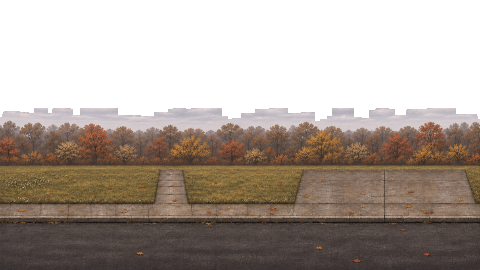
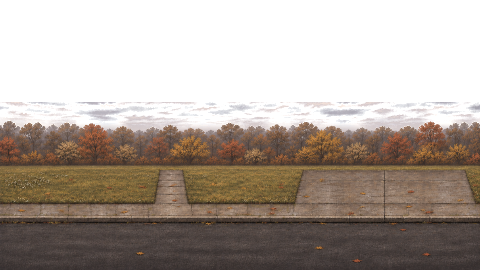
Soft woods against the sky, the whole dial wheel, period figures on the dial and cover; review 50 (cover design, what next)
Claude-Session: https://claude.ai/code/session_01BMyqTudGWpuTphuwn8oTvi

Changed region(s): [[0.0, 0.3556, 1.0, 0.4741]]

diff --git a/gearhouse/render/place/front2.ts b/gearhouse/render/place/front2.ts
@@ -29,10 +29,12 @@ function treeOf(doy: number): [string, string, number] {
   const T: [number, string][] = [[0, 'tree_bare'], [84, 'tree_bare'], [100, 'tree_bud'], [110, 'tree_bud'], [118, 'tree_blossom'], [136, 'tree_blossom'], [148, 'tree_summer'], [258, 'tree_summer'], [270, 'tree_yellow'], [282, 'tree_yellow'], [290, 'tree_red'], [298, 'tree_red'], [306, 'tree_late'], [316, 'tree_late'], [326, 'tree_bare'], [366, 'tree_bare']];
   for (let i = 0; i < T.length - 1; i++) { const [d0, a] = T[i]!, [d1, b] = T[i + 1]!; if (doy >= d0 && doy < d1) return [a, b, a === b ? 0 : (doy - d0) / (d1 - d0)]; } return ['tree_bare', 'tree_bare', 0]; }
 const cell = (x: number, y: number, s = 3) => hash2(Math.floor(x / s) + 911, Math.floor(y / s) + 37);   // a patch's own threshold, for changing a patch at a time
+/** the same for leaves: round clumps of all sizes, not squares */
+const clump = (x: number, y: number) => Math.min(1, Math.max(0, (noise(x / 9 + 3.1, y / 9 + 7.7) * 0.65 + noise(x / 3.5 + 11, y / 3.5) * 0.35 - 0.2) / 0.6));
 
 export class Front2 {
   private alb = new Float32Array(N * 3); private lit = new Float32Array(N * 3); private kind = new Uint8Array(N); private sky = new Float32Array(W * 180 * 3);
-  private glass = new Int8Array(N).fill(-1);
+  private glass = new Int8Array(N).fill(-1); private cover = new Float32Array(N);
   private smoke: { x: number; y: number; age: number; life: number }[] = []; private fall: { x: number; y: number; v: number; snow: number }[] = []; private bird = { x: -1, y: 0, wait: 6, dir: 1 };
   constructor(private C: Cut, private P: Record<string, Pic>) {
     // the panes of the house's windows: the dark glass inside each window box (not the shutters, not the bars)
@@ -72,13 +74,13 @@ export class Front2 {
         const k = (y * W + x) * 3; this.sky[k] = r; this.sky[k + 1] = g; this.sky[k + 2] = b; } }
     // ---- the ground of the season, changing a patch at a time; snow laid in patches
     const [ga, gb, gf] = seasonOf(e.doy), A = P['ground_' + ga]!, B = P['ground_' + gb]!, SN = P.ground_winter_snow!;
-    this.kind.fill(K.Sky);
+    this.kind.fill(K.Sky); this.cover.fill(1);
     for (let i = 0; i < N; i++) { const x = i % W, y = (i / W) | 0, c = cell(x, y, 4), src = e.snow > 0 && cell(x + 3, y, 3) < e.snow ? SN : c < gf ? B : A, j = i * 4;
-      if (src.px[j + 3]! < 128) continue; this.alb[i * 3] = src.px[j]!; this.alb[i * 3 + 1] = src.px[j + 1]!; this.alb[i * 3 + 2] = src.px[j + 2]!; this.kind[i] = y >= 168 && (y >= 203 || (x >= 296 && x < 470) || (x >= 152 && x < 188)) ? K.Wet : K.Ground; }
+      const cv = src.px[j + 3]! / 255; this.cover[i] = cv; if (cv < 0.04) continue; /* the woods' crowns are soft against the sky */ this.alb[i * 3] = src.px[j]!; this.alb[i * 3 + 1] = src.px[j + 1]!; this.alb[i * 3 + 2] = src.px[j + 2]!; this.kind[i] = y >= 168 && (y >= 203 || (x >= 296 && x < 470) || (x >= 152 && x < 188)) ? K.Wet : K.Ground; }
     // ---- the buildings and things
     this.lay(P.garage!, C.garage!.at, K.Wall); this.lay(P.house!, C.house!.at, K.Wall); this.lay(P.mailbox!, C.mailbox!.at, K.Wall); this.lay(P.lamp!, C.lamp!.at, K.Wall);
     const [ta, tb, tf] = treeOf(e.doy), amp = 0.35 + 1.4 * a.wind, sway = (p: Pic) => (sy: number) => { const up = clamp(1 - sy / (p.h * 0.62)); return amp * up * up * (Math.sin(t * 0.9 + sy * 0.015) * 0.75 + Math.sin(t * 2.1 + sy * 0.04) * 0.25); };
-    if (tf > 0) { const pa = P[ta]!, pb = P[tb]!; this.lay(pa, C[ta]!.at, K.Wall, (x, y) => cell(x, y, 3) >= tf, sway(pa)); this.lay(pb, C[tb]!.at, K.Wall, (x, y) => cell(x, y, 3) < tf, sway(pb)); }
+    if (tf > 0) { const pa = P[ta]!, pb = P[tb]!; this.lay(pa, C[ta]!.at, K.Wall, (x, y) => clump(x, y) >= tf, sway(pa)); this.lay(pb, C[tb]!.at, K.Wall, (x, y) => clump(x, y) < tf, sway(pb)); }
     else this.lay(P[ta]!, C[ta]!.at, K.Wall, undefined, sway(P[ta]!));
     if (e.snow > 0.05) this.lay(P.snowcaps!, [0, 0], K.Wall, (x, y) => cell(x, y, 2) < e.snow * 1.3);
     if (ga === 'autumn' || (gb === 'autumn' && gf > 0.5) || ga === 'winter_bare' && e.doy > 300 && e.doy < 335) { const heaps: [string, number, number][] = [['leaves_1', 4, 166], ['leaves_0', 192, 190], ['leaves_2', 262, 196]]; for (const [n, x, y] of heaps) if (P[n]) this.lay(P[n]!, [x, y], K.Ground); }
@@ -94,6 +96,7 @@ export class Front2 {
       if (winLit && (kd === K.Ground || kd === K.Wet)) for (const wb of C.windows) { const cx = (wb[0]! + wb[2]!) / 2, d = (x - cx) / 22, dy = (y - (wb[3]! + 26)) / 12; const kk = 0.22 * wl * Math.exp(-(d * d + dy * dy)); r += kk; g += kk * 0.72; b += kk * 0.42; }
       let ar = this.alb[i * 3]!, ag = this.alb[i * 3 + 1]!, ab = this.alb[i * 3 + 2]!; if (kd === K.Wet && e.wet > 0) { const w = 1 - 0.32 * e.wet; ar *= w; ag *= w; ab *= w; }
       this.lit[i * 3] = ar * r; this.lit[i * 3 + 1] = ag * g; this.lit[i * 3 + 2] = ab * b;
+      if (kd === K.Ground && this.cover[i]! < 1) { const cv = this.cover[i]!, k = (Math.min(179, y) * W + x) * 3; this.lit[i * 3] = lerp(this.sky[k]!, this.lit[i * 3]!, cv); this.lit[i * 3 + 1] = lerp(this.sky[k + 1]!, this.lit[i * 3 + 1]!, cv); this.lit[i * 3 + 2] = lerp(this.sky[k + 2]!, this.lit[i * 3 + 2]!, cv); }
       // the windows at night: what is behind the glass, lamplit
       const gw = this.glass[i]!; if (gw >= 0 && winLit) { if (gw === 9) { this.lit[i * 3] = lerp(this.lit[i * 3]!, 236, wl * 0.8); this.lit[i * 3 + 1] = lerp(this.lit[i * 3 + 1]!, 170, wl * 0.8); this.lit[i * 3 + 2] = lerp(this.lit[i * 3 + 2]!, 96, wl * 0.8); }
         else { const nbx = C.windows[gw]!, nw = P['nightwin_' + gw]!, u = (x - nbx[0]!) / (nbx[2]! - nbx[0]!), v = (y - nbx[1]!) / (nbx[3]! - nbx[1]!), j = (Math.min(nw.h - 1, Math.max(0, Math.floor(v * nw.h))) * nw.w + Math.min(nw.w - 1, Math.max(0, Math.floor(u * nw.w)))) * 4;
@@ -141,4 +144,3 @@ export class Front2 {
     for (const q of this.fall) { if (q.snow) this.dab(q.x, q.y, [0, 0.35, 0.8, 1.3][q.snow]!, [236 * lv + 10, 238 * lv + 10, 246 * lv + 8], [0, 0.45, 0.75, 0.85][q.snow]!);
       else for (let j = 0; j < 6; j++) { const x = Math.round(q.x + j * (0.12 + a.wind * 0.3)), y = Math.round(q.y - j); if (x < 0 || y < 0 || x >= W || y >= H) continue; const i = y * W + x, w = 0.2 - j * 0.025; this.lit[i * 3] = lerp(this.lit[i * 3]!, 200 * lv, w); this.lit[i * 3 + 1] = lerp(this.lit[i * 3 + 1]!, 210 * lv, w); this.lit[i * 3 + 2] = lerp(this.lit[i * 3 + 2]!, 226 * lv, w); } } }
 }
-void noise;

diff --git a/gearhouse/ui/world/directory.ts b/gearhouse/ui/world/directory.ts
@@ -11,7 +11,7 @@
 import type { App } from '../shell/app';
 import { COL, type Rect } from '../pixel/kit';
 import { hex, type RGB } from '../pixel/screen';
-import { tiny } from '../pixel/tiny';
+import { printText, GOTHIC } from '../pixel/printed';
 import type { BookState } from '../../core/house';
 import cut from '../../data/places/phone_cut.json';
 import dir from '../../data/directory/millbrook_1930.json';
@@ -61,7 +61,7 @@ export function directoryBook(app: App, state: () => BookState) {
       if (b.kind === 'title') { if (fresh) { centre('MILLBROOK', 150, `700 46px ${SERIF}`, INK, 3); centre('TELEPHONE', 198, `400 30px ${SERIF}`, INK, 6); centre('DIRECTORY', 236, `400 30px ${SERIF}`, INK, 6);
           rule(262, 2, INK); rule(266, 1); centre(String(DIR.year), 316, `500 44px ${COND}`, RED, 4); rule(340, 1); rule(344, 2, INK);
           DIR.howTo.forEach((s, k) => centre(s.charAt(0) + s.slice(1).toLowerCase(), 388 + k * 22, `italic 400 15px ${SERIF}`, INK2)); centre('CLASSIFIED SECTION', 530, `500 17px ${COND}`, INK, 3); centre('Trades in alphabetical order', 554, `italic 400 13px ${SERIF}`, INK2);
-          centre('THE NEW YORK TELEPHONE COMPANY', 628, `400 12px ${SERIF}`, INK2, 2); } continue; }
+          centre('MILLBROOK & TRI-COUNTY TELEPHONE CO.', 628, `400 12px ${SERIF}`, INK2, 2); } continue; }
       if (b.kind === 'trade' || b.kind === 'long') { if (fresh) { rule(y + 4, 2, INK); rule(y + 8, 1); centre(b.kind === 'long' ? 'LONG DISTANCE — CALL THE OPERATOR' : b.en, y + 26, `500 15px ${COND}`, INK, 2); rule(y + 31, 1); }
         hits.push({ r: { x: x0 + mL, y: y0 + y, w: cw, h: 34 }, tip: b.kind === 'long' ? '장거리 — 0번 교환원에게' : b.ko }); continue; }
       if (b.kind === 'entry') { const e = b.e, no = e.long ? 'Call 0' : e.no || 'no tel.';
@@ -131,8 +131,10 @@ export function directoryBook(app: App, state: () => BookState) {
       if (edge < 2) c = [c[0] * 0.7, c[1] * 0.7, c[2] * 0.7]; if (edge === 2) c = [c[0] * 1.12, c[1] * 1.12, c[2] * 1.12];
       const inset = Math.min(x - r.x - 20, y - r.y - 10, r.x + r.w - 11 - x, r.y + r.h - 11 - y); if (inset === 0) c = [c[0] * 0.72, c[1] * 0.72, c[2] * 0.72]; if (inset === -1) c = [c[0] * 1.15, c[1] * 1.15, c[2] * 1.15];
       put(x, y, c); }
-    const gold: RGB = [218, 182, 104], goldD: RGB = [120, 84, 40], cx = r.x + 14 + (r.w - 14) / 2, stamp = (s: string, y: number, scale: number) => { const w = s.length * 4 * scale - scale, x = Math.round(cx - w / 2); tiny(s, x + 1, y + 1, (px, py) => put(px, py, goldD), scale); tiny(s, x, y, (px, py) => put(px, py, gold), scale); };
-    stamp('MILLBROOK', r.y + 40, 1); stamp('TELEPHONE', r.y + 58, 2); stamp('DIRECTORY', r.y + 74, 2); stamp(String(DIR.year), r.y + 100, 2);
+    const gold: RGB = [218, 182, 104], goldD: RGB = [92, 60, 28], cx = r.x + 14 + (r.w - 14) / 2, stamp = (txt: string, y: number, font: string, sp = 0) => {   // gold leaf pressed into the leather: a dark edge under, the gold on top
+      printText(txt, cx + 0.6, y + 0.8, { font, align: 'center', spacing: sp }, (px, py, a) => put(px, py, goldD, a * 0.8)); printText(txt, cx, y, { font, align: 'center', spacing: sp }, (px, py, a) => put(px, py, gold, a)); };
+    stamp('MILLBROOK', r.y + 48, `700 9px ${SERIF}`, 1.5); stamp('TELEPHONE', r.y + 72, `400 14px ${SERIF}`, 1.2); stamp('DIRECTORY', r.y + 90, `400 14px ${SERIF}`, 1.2);
+    for (let x = cx - 30; x <= cx + 30; x++) { put(x, r.y + 100, gold, 0.8); put(x, r.y + 103, gold, 0.5); } stamp('1930', r.y + 122, `500 15px ${GOTHIC}`, 2);
     for (let a = 0; a < Math.PI * 2; a += 0.05) { put(Math.round(cx + Math.cos(a) * 10), Math.round(r.y + 140 + Math.sin(a) * 10), gold); }   // a bell in a ring
     for (let y = -6; y <= 5; y++) for (let x = -5; x <= 5; x++) { const w = 1.5 + (y + 6) * 0.35; if (Math.abs(x) <= w && y < 5) put(cx + x, r.y + 140 + y, y === -6 ? goldD : gold); }
     if (hover) for (let x = r.x; x < r.x + r.w; x++) { put(x, r.y, [255, 226, 150]); put(x, r.y + r.h - 1, [255, 226, 150]); } }

diff --git a/gearhouse/ui/world/phonedesk.ts b/gearhouse/ui/world/phonedesk.ts
@@ -15,6 +15,7 @@ import type { App, Scene } from '../shell/app';
 import { COL, type Rect } from '../pixel/kit';
 import { hex, type RGB } from '../pixel/screen';
 import { tiny } from '../pixel/tiny';
+import { printText, SERIF, GOTHIC } from '../pixel/printed';
 import { pixels } from './pics';
 import { directoryBook, DIR, type Entry } from './directory';
 import { newHouse, type HouseState } from '../../core/house';
@@ -87,7 +88,7 @@ export function phoneDesk(app: App): Scene {
     for (let y = r.y + 3; y < r.y + r.h + 3; y++) for (let x = r.x + 3; x < r.x + r.w + 3; x++) put(x, y, [16, 8, 4], 0.35);
     for (let y = r.y; y < r.y + r.h; y++) for (let x = r.x; x < r.x + r.w; x++) put(x, y, y < r.y + 6 ? [168 * k, 52 * k, 40 * k] : (y - r.y) % 9 === 8 ? [196 * k, 204 * k, 214 * k] : [236 * k, 230 * k, 212 * k]);
     S.text('메모', r.x + 4, r.y + 8, [90, 70, 56]);
-    list.slice(0, 7).forEach((e, n) => { const nm = (e.short ?? e.ko.split(' (')[0]!).slice(0, 6); S.text(nm, r.x + 3, r.y + 18 + n * 9, [70, 70, 84], r.w - 22); tiny(e.no || '0', r.x + r.w - 17, r.y + 20 + n * 9, (x, y) => put(x, y, [150, 40, 34])); });
+    list.slice(0, 7).forEach((e, n) => { const nm = (e.short ?? e.ko.split(' (')[0]!).slice(0, 6); S.text(nm, r.x + 3, r.y + 18 + n * 9, [70, 70, 84], r.w - 22); printText(e.no || '0', r.x + r.w - 3, r.y + 25 + n * 9, { font: `400 8px ${SERIF}`, align: 'right' }, (x, y, c) => put(x, y, [120, 50, 46], c)); /* in pencil */ });
     if (!list.length) S.text('(번호부에서', r.x + 3, r.y + 20, [130, 120, 110]), S.text(' 동그라미)', r.x + 3, r.y + 29, [130, 120, 110]); }
 
   // for tests: the dial's state
@@ -104,9 +105,9 @@ export function phoneDesk(app: App): Scene {
       // the telephone: its shadow, the body, the number card's figures, the wheel, the stop, the cord, the handset
       shadow(C.body.at[0]! + C.body.size[0]! / 2 + 6, C.body.at[1]! + C.body.size[1]! - 4, C.body.size[0]! / 2 + 6, 9, 0.55);
       sprite(body, C.body.size[0]!, C.body.size[1]!, C.body.at[0]!, C.body.at[1]!, k);
-      C.wheel.holes.forEach((_, i) => { const a = holeAt(i, 0), s = i === 9 ? '0' : String(i + 1); tiny(s, rcx + Math.cos(a) * C.wheel.holeR - 1, rcy + Math.sin(a) * C.wheel.holeR - 2, (x, y) => put(x, y, [40 * k, 30 * k, 26 * k])); });
+      C.wheel.holes.forEach((_, i) => { const a = holeAt(i, 0), s = i === 9 ? '0' : String(i + 1); printText(s, rcx + Math.cos(a) * C.wheel.holeR, rcy + Math.sin(a) * C.wheel.holeR + 3.5, { font: `500 9px ${GOTHIC}`, align: 'center' }, (x, y, c) => put(x, y, [30 * k, 22 * k, 20 * k], c)); });   // the figures on the number ring, black gothic as the dials had them
       wheel(wh, k);
-      tiny('MILLBROOK', rcx - 17, rcy - 9, (x, y) => put(x, y, [70 * k, 56 * k, 44 * k])); tiny(DIR.myNumber, rcx - 15, rcy - 1, (x, y) => put(x, y, [RED[0] * k, RED[1] * k, RED[2] * k]), 2);
+      printText('MILLBROOK', rcx, rcy - 4, { font: `700 5px ${SERIF}`, align: 'center', spacing: 0.2 }, (x, y, c) => put(x, y, [70 * k, 56 * k, 44 * k], c)); printText(DIR.myNumber, rcx, rcy + 7, { font: `700 11px ${SERIF}`, align: 'center', spacing: 0.5 }, (x, y, c) => put(x, y, [RED[0] * k, RED[1] * k, RED[2] * k], c));   // the number card, as typed by the company
       sprite(stop, 17, 23, C.stop.at[0]!, C.stop.at[1]!, k);
       if (grab) { const a = holeAt(grab.hole, rot), fx = rcx + Math.cos(a) * C.wheel.holeR, fy = rcy + Math.sin(a) * C.wheel.holeR; for (let j = -5; j <= 5; j++) for (let i = -5; i <= 5; i++) { const q = i * i + j * j; if (q < 26) put(fx + i, fy + j, q > 18 ? [150, 96, 72] : j < -2 ? [246, 214, 190] : [226, 176, 146]); } }
       const hy = C.handset.at[1]! - lift * 130, hx = C.handset.at[0]! - lift * 10;

diff --git a/gearhouse/ui/pixel/printed.ts b/gearhouse/ui/pixel/printed.ts
@@ -1,0 +1,21 @@
+// Print in a real typeface, at the screen's own size, into the pixel buffer (review 50): for things printed or stamped
+// in the world (the dial's figures, the number card, a book's cover) where the 3x5 pixel face looks too casual. The
+// text is drawn by the browser into a small canvas (with its soft edges, as ink on paper at that size) and laid into
+// the pixels with those edges as coverage. Cached per text, font and colour; drawn again once the web fonts arrive.
+const cache = new Map<string, { w: number; h: number; a: Float32Array; ox: number }>();
+let fontsIn = false;
+try { void document.fonts.ready.then(() => { fontsIn = true; cache.clear(); }); } catch { fontsIn = true; }
+
+export interface PrintOpts { font: string; align?: 'left' | 'center' | 'right'; spacing?: number }
+/** lay `text` into a 480-wide RGBA buffer with its baseline at y; `put(x, y, coverage)` does the colouring */
+export function printText(text: string, x: number, y: number, o: PrintOpts, put: (x: number, y: number, a: number) => void): number {
+  const key = `${text}|${o.font}|${o.spacing ?? 0}|${fontsIn}`; let g = cache.get(key);
+  if (!g) { const c = document.createElement('canvas'), cx = c.getContext('2d')!; cx.font = o.font; setSp(cx, o.spacing ?? 0); const m = cx.measureText(text), w = Math.ceil(m.width) + 4, asc = Math.ceil(m.actualBoundingBoxAscent || 10) + 2, desc = Math.ceil(m.actualBoundingBoxDescent || 3) + 2;
+    c.width = w; c.height = asc + desc; cx.font = o.font; setSp(cx, o.spacing ?? 0); cx.fillStyle = '#fff'; cx.fillText(text, 2, asc);
+    const d = cx.getImageData(0, 0, w, asc + desc).data, a = new Float32Array(w * (asc + desc)); for (let i = 0; i < a.length; i++) a[i] = d[i * 4 + 3]! / 255;
+    g = { w, h: asc + desc, a, ox: asc }; cache.set(key, g); }
+  const tw = g.w - 4, x0 = Math.round(o.align === 'center' ? x - tw / 2 : o.align === 'right' ? x - tw : x) - 2, y0 = Math.round(y) - g.ox;
+  for (let j = 0; j < g.h; j++) for (let i = 0; i < g.w; i++) { const a = g.a[j * g.w + i]!; if (a > 0.04) put(x0 + i, y0 + j, Math.min(1, a * 1.15)); }
+  return tw; }
+function setSp(c: CanvasRenderingContext2D, px: number) { const cc = c as CanvasRenderingContext2D & { letterSpacing?: string }; if ('letterSpacing' in cc) cc.letterSpacing = px + 'px'; }
+export const SERIF = "'Old Standard TT', Georgia, 'Times New Roman', serif", GOTHIC = "Oswald, 'Arial Narrow', sans-serif";

diff --git a/gearhouse/tools/places/front_v2.py b/gearhouse/tools/places/front_v2.py
@@ -116,11 +116,28 @@ def sky_mask(a):
     line = np.array([int(np.median(line[max(0, x - 3):x + 4])) for x in range(len(line))])
     for x in range(a.shape[1]): m[line[x]:, x] = False
     return m
+def matte(a, m, lo=16, span=46):
+    """soft coverage for the woods against the painted sky (review 50): the sky's colour just above the woods, column by
+    column, is the background; how far a pixel is from it is how much of it is tree. Its colour is freed of the sky in it,
+    so the game's own sky shows through the gaps between the branches, softly, with no hard steps"""
+    Hh, Ww = m.shape; first = np.array([np.argmax(~m[:, x]) if (~m[:, x]).any() else Hh for x in range(Ww)])
+    B = np.zeros((Ww, 3), np.float32)
+    for x in range(Ww): y = max(4, int(first[x])); B[x] = a[y - 4:y, x].mean(0)
+    B = np.stack([np.convolve(np.pad(B[:, c], 12, mode='edge'), np.ones(25) / 25, 'valid') for c in range(3)], 1)
+    top = int(np.percentile(first, 2)) - 6; bottom = int(np.percentile(first, 90)) + 14
+    alpha = np.where(m, 0.0, 1.0).astype(np.float32); rgb = a.copy()
+    for y in range(max(0, top), min(Hh, bottom)):
+        d = np.abs(a[y] - B).sum(1); al = np.clip((d - lo) / span, 0, 1)
+        if y > bottom - 8: al = np.maximum(al, (y - (bottom - 8)) / 8)
+        alpha[y] = al; ok = al > 0.04; rgb[y, ok] = np.clip(B[ok] + (a[y, ok] - B[ok]) / al[ok, None], 0, 255)
+    alpha[:max(0, top)] = 0
+    return rgb, alpha
+
 skies = {}
 for name, f in BG.items():
     a = np.asarray(Image.open(os.path.join(U, f + '-image.png')).convert('RGB').resize((W, H), Image.BOX)).astype(np.float32)
-    m = sky_mask(a)
-    g = np.concatenate([a, np.where(m, 0, 255)[..., None]], 2); save(g, 'ground_' + name + '.png')
+    m = sky_mask(a); rgb, al = matte(a, m)
+    g = np.concatenate([rgb, al[..., None] * 255], 2); save(g, 'ground_' + name + '.png')
     # the sky picture: its rows down to the woods; behind the trees, the sky above carried down
     SH = 180; sky = a[:SH].copy()
     for x in range(W):
@@ -149,7 +166,7 @@ for y, x in zip(*np.nonzero(white)):
 dk = snowy.mean(2) < 118; snowy[dk] = snowy[dk] * np.array([1.08, 0.97, 0.86])   # the branches warmer (brown, not the snow's blue); the sky between them as painted
 wb[woods] = snowy
 m = sky_mask(ws)
-save(np.concatenate([wb, np.where(m, 0, 255)[..., None]], 2), 'ground_winter_bare.png')
+rgb, al = matte(wb, m, 5, 22); save(np.concatenate([rgb, al[..., None] * 255], 2), 'ground_winter_bare.png')
 
 # --- the winter example's snow on the roofs, chimney, mailbox and lamp ----------------------------------------------------
 we = np.asarray(Image.open(os.path.join(U, '7d8d0e8b-image.png')).convert('RGB')).astype(np.float32)

diff --git a/gearhouse/tools/places/phone.py b/gearhouse/tools/places/phone.py
@@ -74,7 +74,7 @@ body_wh = piece(BODY, sB, 'body', whole=True)   # without the bit of cord that l
 stop_wh = piece(STOP, sB, 'stop', lambda q: ~((q[..., 0] > 232) & (q[..., 1] > 190) & (q[..., 2] > 140)) & (q[..., :3].mean(2) > 48))   # the brass hook (and the ring under it), not the cream card nor the black body
 ring = (bx + RING[0] * sB, by + RING[1] * sB, RING[2] * sB)
 sW = ring[2] / WHEEL[2]; Z = 3                               # the wheel's rim on the ring; kept at three times
-r = WHEEL[2] + 6; wheel_wh = piece((WHEEL[0] - r, WHEEL[1] - r, WHEEL[0] + r, WHEEL[1] + r), sW * Z, 'wheel')
+r = 274; wheel_wh = piece((WHEEL[0] - r, WHEEL[1] - r, WHEEL[0] + r, WHEEL[1] + r), sW * Z, 'wheel', whole=True)
 sH = 187 / (HANDSET[2] - HANDSET[0]); handset_wh = piece(HANDSET, sH, 'handset')
 # the cord's colours, from the parts sheet's braid
 cord = P[200:700, 760:960]; cm = cord[..., 3] > 0; cols = cord[cm][:, :3]; lum = cols.mean(1)

diff --git a/gearhouse/docs/systems/50_fixes_cover_and_what_next.md b/gearhouse/docs/systems/50_fixes_cover_and_what_next.md
@@ -1,0 +1,83 @@
+# 검토 50 — 숲 덩어리 · 다이얼 · 글꼴 고침, 전화번호부 표지 디자인, 다음 순서
+
+기획자 의견(2026-11-21, 스크린샷 2장):
+- 배경 나무(먼 숲)가 덩어리진다.
+- 전화기 다이얼 끝이 잘린다.
+- 숫자 글꼴(전화번호부 표지 · 다이얼)이 너무 캐주얼하다.
+- 표지를 배경에 맞게 다시 디자인하는 것을 검토할 것.
+- 문 모션 다음에 무엇을 할지 검토할 것: 남은 시스템 먼저? 자동차 · 구동계 먼저? 아니면 같이?
+
+## 1. 고친 것
+
+**먼 숲 덩어리**
+- 원인: 하늘과 숲의 경계를 열마다 "하늘이냐 아니냐"로 딱 잘랐다. 앙상한 가지 사이의 하늘이 계단처럼 잘려 나갔다.
+- 고침: **부드러운 매트**로 바꿨다.
+  - 숲 바로 위의 칠해진 하늘색을 열마다 배경색으로 잡는다. 픽셀이 그 색과 얼마나 다른지를 숲이 덮은 정도로 삼는다.
+  - 픽셀 색에서 섞여 있던 하늘을 걷어 낸다. 그러면 게임의 하늘이 가지 사이로 부드럽게 비친다.
+  - 눈 없는 겨울 숲은 하늘과 색이 가까워 문턱을 따로 낮췄다.
+
+**나무가 물드는 모양**: 노랑→빨강으로 바뀌는 덩어리를 네모 칸 대신 둥근 잎 뭉치(노이즈)로 바꿨다.
+
+**다이얼 끝 잘림**
+- 원인: 부품 시트에서 휠을 오릴 때, 상자를 은색 테두리 반지름으로 잡았다. 휠의 바깥 테두리는 그보다 크다.
+- 고침: 상자를 넓히고, 이어진 휠 덩어리만 남긴다.
+
+**숫자 글꼴**
+- 3×5 픽셀 활자를 시대 글꼴로 바꿨다. 화면 크기에서 래스터화해 가장자리를 부드럽게 찍는다(`ui/pixel/printed.ts`).
+  - 다이얼 숫자: 검은 고딕(Oswald). 그 시절 다이얼의 숫자판처럼.
+  - 번호 카드: 활자 세리프(Old Standard). "MILLBROOK", 빨간 "3108".
+  - 닫힌 표지: 세리프 금박. 눌린 그림자 위에 금, 가는 두 줄, 연도.
+  - 메모장 번호: 연필색 세리프.
+- 표지 · 판권의 회사 이름은 실제 회사가 아닌 가상의 "MILLBROOK & TRI-COUNTY TELEPHONE CO."로 바꿨다.
+
+## 2. 전화번호부 표지 디자인 (검토)
+
+**사실관계**
+- 1930년 무렵 전화번호부는 대개 **두꺼운 종이 표지**였다. 흑 · 적 2도 인쇄로 도시 이름, "TELEPHONE DIRECTORY", 몇 월 몇 일까지의 정정 날짜, 회사 이름, 그리고 아래에 광고 띠가 들어갔다.
+- 집집마다 이걸 **가죽 · 인조가죽 덮개(디렉토리 커버)**에 끼워 두기도 했다. 지금 그림(가죽 + 금박)은 이 덮개에 해당한다.
+
+**안**
+| 안 | 모습 | 장점 | 단점 |
+|---|---|---|---|
+| A. 지금(가죽 덮개 + 금박) | 고급, 어두움 | 책상과 색이 맞음 | 전화번호부로 바로 읽히지 않음 |
+| **B. 종이 표지(추천)** | 바랜 크림 · 겨자색 판지, 흑 · 적 인쇄, 종 무늬, 아래 광고 띠, 닳은 모서리, 커피 자국, 책등에 도시 이름 | 시대 그대로, 한눈에 "전화번호부", 해마다 새 판이 표지 색으로 구별됨 | 그림이 필요 |
+| C. 덮개 + 종이 표지가 비죽 | A 안에 B가 끼워져 모서리가 보임 | 둘 다 | 복잡 |
+
+**추천: B.** 그림 품질을 위해 기획자 생성 그림을 부탁한다. 장면 그림과 같은 화풍, 같은 빛, **닫힌 책 한 권, 위에서 비스듬히**.
+- 제목 자리는 비워 둔다(글자는 게임이 시대 글꼴로 찍는다. 해마다 연도가 바뀐다).
+- 종 무늬 · 광고 띠는 그려도 좋다.
+- 자홍 단색 바탕 또는 투명.
+- 같은 책 **펼친 그림**도 있으면, 지금의 펼친 종이 그림과 맞출 수 있다.
+
+## 3. 다음 순서 (검토)
+
+**지금 상황**
+- 프리 알파 정의: 수리 한 건이 처음부터 끝까지 플레이된다.
+- 이미 있는 것: 장소(집 앞 · 주방 · 전화), 시계, 수리 규칙, 공급, 전화 주문.
+- 비어 있는 것: 손님 상담(4단계), 차고 수리(6단계), 인도 · 결제(7단계). 셋 다 **차가 있어야** 돌아간다.
+- 차 쪽에 이미 있는 것: 1929 세단의 3D 부품 모델, 부품별 칠 층, 판금 · 도장 시제품. 구동계는 엔진 사다리 검토만 있고 구현은 없다.
+
+**세 가지 길**
+| 길 | 무엇 | 좋은 점 | 나쁜 점 |
+|---|---|---|---|
+| ① 남은 시스템 먼저 | 상담 · 인도 · 결제 · 구인 · 은행 화면… | 경영 뼈대가 빨리 선다 | 차가 없어서 "무엇을" 수리하는지 화면에 없다. 나중에 차가 들어오면 화면을 다시 짠다 |
+| ② 자동차 · 구동계 먼저 | 엔진 · 변속기 · 차축 설계와 성능, 여러 차종 | 게임의 핵심 재미 | 오래 걸리고, 그동안 플레이할 줄기가 없다. 쓰임새 없이 만든 구동계는 다시 고치게 된다 |
+| **③ 함께 (추천)** | 수리 한 건의 줄기를 따라, 그 줄기에 필요한 만큼의 차 · 구동계와 시스템을 같이 만든다 | 매 단계 플레이 가능. 차 모델이 실제 쓰임에서 검증된다. 프리 알파가 가장 빠르다 | 구동계 "설계"(직접 엔진 만들기)는 프리 알파 뒤로 미뤄진다 |
+
+**추천: ③**
+1. **문 모션**: 현관 · 차고문 · 우편함 깃발.
+2. **차가 세계에 나온다**
+   - 손님 차가 길에서 들어와 진입로에 선다(3D 부품 모델, 빛 · 반사 · 그림자, 바퀴 · 출렁임, 엔진 소리).
+   - 손상(녹 · 찌그러짐)이 그 부품에 보인다.
+   - 구동계는 **차가 움직이는 데 필요한 만큼만**: 시동, 공회전 소리, 기어, 속도.
+3. **상담(4단계)**: 문 두드림 → 주방 탁자에 찻잔 → 상담. 사람 스프라이트가 필요하다(없으면 임시 실루엣).
+4. **차고 수리(6단계)**
+   - 차가 차고로 들어간다. 판금 · 도장이 실제 손상 부품을 다룬다.
+   - 구동계는 **수리할 수 있는 만큼**: 고장 증상(소리 · 연기 · 시동 불량), 부품 상태, 교체(전화로 주문한 부품이 배달됨).
+5. **인도 · 결제 · 후일담(7단계)** → **프리 알파**.
+6. **그 뒤**: 구동계 설계(엔진 사다리, 직접 만들기, 성능), 차종 늘리기, 남은 경영 시스템(구인 등).
+
+**결정 필요**
+- 순서 ③으로 갈지.
+- 사람 스프라이트 계획: 기획자가 외부에서 만든다(56~58 px). 3단계 전까지 오면 좋다.
+- 표지 B안 그림을 부탁할 수 있는지.

diff --git a/gearhouse/docs/decisions.md b/gearhouse/docs/decisions.md
@@ -426,3 +426,7 @@ These decisions still hold, from `legacy/docs/MASTER_GAME_PLAN.md`:
 ## 2026-11-21 — 집 앞을 스프라이트와 계절 그림으로 (검토 49)
 - 검토 46 계획 진행. 하늘 그림(흐름 · 시각 색), 계절 땅(덩어리 단위 전환), 나무 7단계(매끄러운 흔들림), 쌓이고 녹는 눈(core/ground.ts, 저장), 젖음과 웅덩이, 눈 모자, 낙엽 · 눈 더미, 밤 창(커튼 · 등), 가로등과 젖은 길 빛줄기.
 - 정지 장면 8장으로 검토받는다(docs/reference/front_stills_8.png). 다음: 문 모션, 그림자, 손님 차.
+
+## 2026-11-21 — 고침과 다음 순서 검토 (검토 50)
+- 먼 숲: 칠해진 하늘을 배경으로 한 부드러운 매트(계단 없앰). 나무 물듦은 둥근 잎 뭉치 단위. 다이얼 휠 바깥 테두리 잘림 고침. 다이얼 · 번호 카드 · 표지 · 메모 숫자는 시대 글꼴(Oswald · Old Standard)을 화면 크기에서 래스터화. 회사 이름은 가상으로.
+- 결정 대기: 표지 B안(종이 표지, 기획자 그림), 다음 순서 ③(수리 줄기를 따라 차 · 구동계와 시스템을 함께; 구동계 설계는 프리 알파 뒤).
